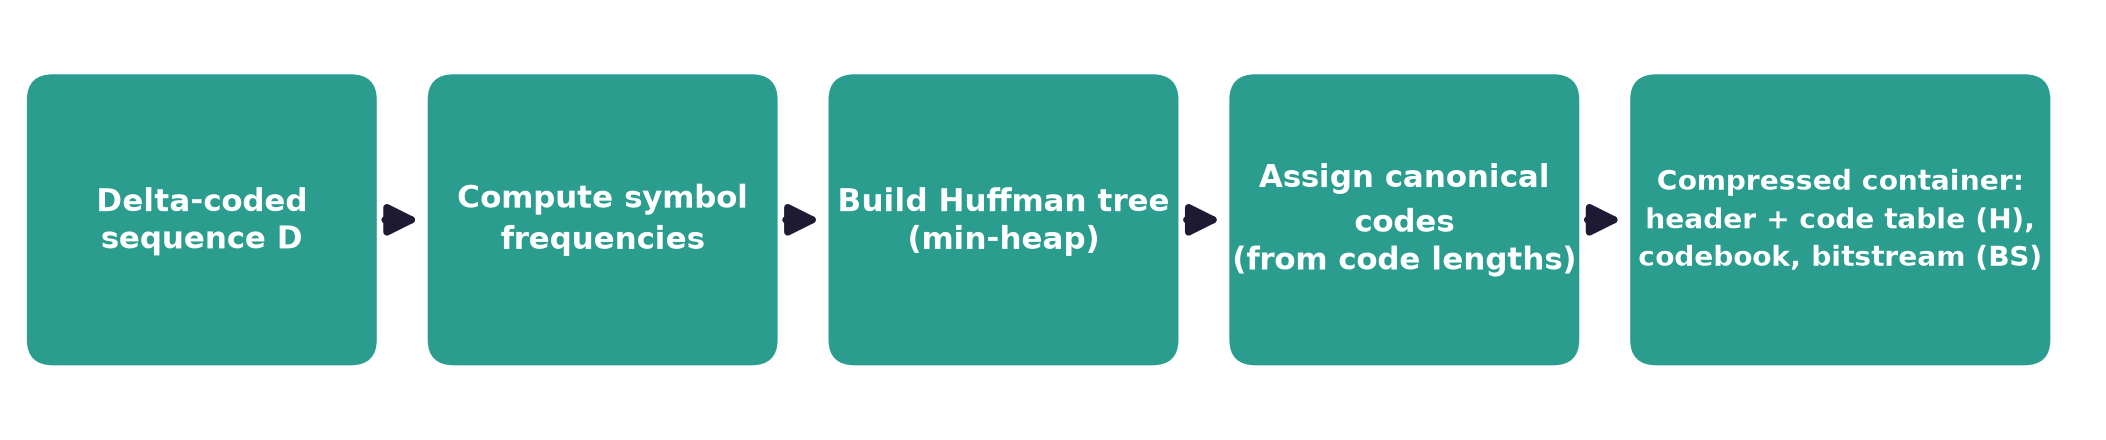
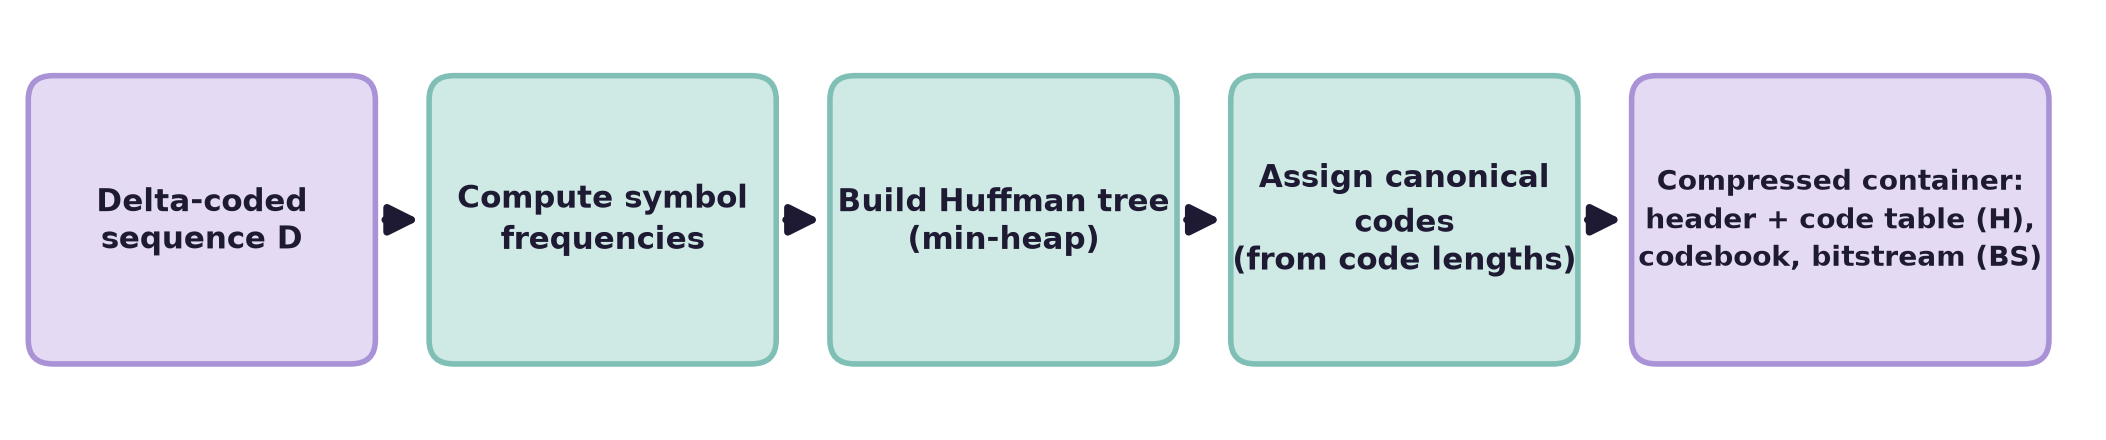
Huffman figures: two light tones (light teal + lavender)
Claude-Session: https://claude.ai/code/session_01T6gEewJ8YaCdmnsfS34RJd

diff --git a/results/seminar/make_huffman_combined.py b/results/seminar/make_huffman_combined.py
@@ -3,7 +3,7 @@ import matplotlib; matplotlib.use("Agg")
 import matplotlib.pyplot as plt
 from matplotlib.patches import Circle, FancyBboxPatch, FancyArrowPatch
 
-INK = "#1F1A33"; DEEP = "#2E2055"; MAG = "#E0457B"; TEAL = "#2A9D8F"; BLUE = "#2F6DB5"; PUR = "#6B4FA3"; ORG = "#2A9D8F"; YEL = "white"
+INK = "#1F1A33"; DEEP = "#2E2055"; MAG = "#E0457B"; TEAL = "#2A9D8F"; BLUE = "#2F6DB5"; PUR = "#6B4FA3"; ORG = "#2A9D8F"; YEL = "white"; LT = "#CFEAE5"; LP = "#E4DAF4"; LTE = "#7FBFB5"; LPE = "#A992D6"
 
 # Example with the structure of the example of the cited paper (frequencies 7, 6, 5, 2, 1) and the delta symbols of this work
 freq = {126: 2, 127: 6, 128: 7, 129: 5, 130: 1}
@@ -25,10 +25,10 @@ ax.text(4.85, 8.25, "Delta-coded indices D (21 symbols)", ha="center", va="cente
 ax.text(4.85, 7.55, "128 ×7,  127 ×6,  129 ×5,  126 ×2,  130 ×1", ha="center", va="center", fontsize=14, family="monospace", color=INK, fontweight="bold")
 ax.add_patch(FancyArrowPatch((4.85, 7.15), (4.85, 6.6), arrowstyle="-|>", mutation_scale=26, lw=3, color=INK))
 cols = ["Symbol\n(D)", "Frequency", "Huffman\ncode", "Canonical\ncode"]
-xs = [1.2, 3.45, 5.7, 7.95]; ws = [1.9, 2.4, 2.1, 2.1]; cc = [TEAL, TEAL, TEAL, TEAL]
+xs = [1.2, 3.45, 5.7, 7.95]; ws = [1.9, 2.4, 2.1, 2.1]; cc = [LT, LT, LT, LP]
 for x, w, t, col in zip(xs, ws, cols, cc):
-    ax.add_patch(FancyBboxPatch((x - w / 2, 5.55), w, 0.95, boxstyle="round,pad=0.02,rounding_size=0.15", fc=col, ec=col))
-    ax.text(x, 6.025, t, ha="center", va="center", color="white", fontsize=12.5, fontweight="bold", linespacing=1.1)
+    ax.add_patch(FancyBboxPatch((x - w / 2, 5.55), w, 0.95, boxstyle="round,pad=0.02,rounding_size=0.15", fc=col, ec=(LPE if col == LP else LTE), lw=1.8))
+    ax.text(x, 6.025, t, ha="center", va="center", color=INK, fontsize=12.5, fontweight="bold", linespacing=1.1)
 for r, s in enumerate(syms):
     y = 4.85 - r * 0.8
     ax.add_patch(FancyBboxPatch((0.1, y - 0.35), 9.5, 0.7, boxstyle="round,pad=0.01,rounding_size=0.1",
@@ -36,13 +36,13 @@ for r, s in enumerate(syms):
     vals = [str(s), str(freq[s]), tree_code[s], canon[s]]
     for i, (x, v) in enumerate(zip(xs, vals)):
         ax.text(x, y, v, ha="center", va="center", fontsize=16, family="monospace" if i != 1 else None,
-                color=(TEAL if i == 3 else INK), fontweight="bold" if i >= 2 else "normal")
+                color=(DEEP if i == 3 else INK), fontweight="bold" if i >= 2 else "normal")
 
 # ---------------- right: tree ----------------
 ox, oy, sx, sy = 10.4, 0.2, 0.93, 1.0   # offset and scale of the tree coordinates
 nodes = {
-    "root": (5.0, 7.0, "21", TEAL), "n8": (2.5, 5.55, "8", TEAL), "n13": (7.5, 5.55, "13", TEAL),
-    "n3": (1.3, 4.1, "3", TEAL), "l129": (3.7, 4.1, "5", ORG), "l127": (6.5, 4.1, "6", ORG), "l128": (8.5, 4.1, "7", ORG),
+    "root": (5.0, 7.0, "21", LP), "n8": (2.5, 5.55, "8", LP), "n13": (7.5, 5.55, "13", LP),
+    "n3": (1.3, 4.1, "3", LP), "l129": (3.7, 4.1, "5", ORG), "l127": (6.5, 4.1, "6", ORG), "l128": (8.5, 4.1, "7", ORG),
     "l130": (0.45, 2.65, "1", ORG), "l126": (2.15, 2.65, "2", ORG),
 }
 edges = [("root", "n8", "0"), ("root", "n13", "1"), ("n8", "n3", "0"), ("n8", "l129", "1"),
@@ -52,17 +52,17 @@ P = lambda x, y: (ox + x * sx, oy + y * sy - 0.4)
 ax.text(ox + 4.65, 8.25, "Huffman tree (left branch 0, right branch 1)", ha="center", va="center", fontsize=14, color=DEEP, fontweight="bold")
 for a, b, lab in edges:
     xa, ya = P(*nodes[a][:2]); xb, yb = P(*nodes[b][:2])
-    ax.plot([xa, xb], [ya - 0.3, yb + 0.3], color="#7F8FA9", lw=3, zorder=1)
+    ax.plot([xa, xb], [ya - 0.3, yb + 0.3], color="#9AA5B8", lw=3, zorder=1)
     ax.text((xa + xb) / 2 + (-0.28 if lab == "0" else 0.28), (ya + yb) / 2 + 0.1, lab, ha="center", va="center",
             fontsize=15, fontweight="bold", color=DEEP, bbox=dict(boxstyle="circle,pad=0.1", fc="white", ec="none"))
 for k, (x, y, t, col) in nodes.items():
     px, py = P(x, y)
     isleaf = k.startswith("l")
-    ax.add_patch(Circle((px, py), 0.42, fc=("white" if isleaf else col), ec=TEAL, lw=2.6, zorder=3))
-    ax.text(px, py, t, ha="center", va="center", color=(TEAL if isleaf else "white"), fontsize=15, fontweight="bold", zorder=4)
+    ax.add_patch(Circle((px, py), 0.42, fc=(LT if isleaf else LP), ec=(LTE if isleaf else LPE), lw=2.4, zorder=3))
+    ax.text(px, py, t, ha="center", va="center", color=INK, fontsize=15, fontweight="bold", zorder=4)
 for k, s in leaf.items():
     px, py = P(*nodes[k][:2])
-    ax.add_patch(FancyBboxPatch((px - 0.62, py - 1.45), 1.24, 0.95, boxstyle="round,pad=0.02,rounding_size=0.12", fc=YEL, ec=TEAL, lw=2.2, zorder=2))
+    ax.add_patch(FancyBboxPatch((px - 0.62, py - 1.45), 1.24, 0.95, boxstyle="round,pad=0.02,rounding_size=0.12", fc=YEL, ec=LTE, lw=2.2, zorder=2))
     ax.text(px, py - 0.82, str(s), ha="center", va="center", fontsize=14.5, fontweight="bold", color=INK, family="monospace")
     ax.text(px, py - 1.17, tree_code[s], ha="center", va="center", fontsize=14.5, fontweight="bold", color=INK, family="monospace")
 

diff --git a/results/seminar/make_huffman_figs.py b/results/seminar/make_huffman_figs.py
@@ -2,15 +2,15 @@ import math, heapq
 import matplotlib; matplotlib.use("Agg")
 import matplotlib.pyplot as plt
 from matplotlib.patches import FancyBboxPatch, FancyArrowPatch
-INK="#1F1A33";DEEP="#2E2055";PURPLE="#6B4FA3";MAG="#E0457B";TEAL="#2A9D8F";GOLD="#F2B134";ORG="#E07B22";BLUE="#2F6DB5"
+LT="#CFEAE5";LP="#E4DAF4";LTE="#7FBFB5";LPE="#A992D6";INK="#1F1A33";DEEP="#2E2055";PURPLE="#6B4FA3";MAG="#E0457B";TEAL="#2A9D8F";GOLD="#F2B134";ORG="#E07B22";BLUE="#2F6DB5"
 # ---------- figure 1: coloured flow ----------
 fig,ax=plt.subplots(figsize=(13.33,2.6),dpi=200); ax.set_xlim(0,100); ax.set_ylim(0,20); ax.axis("off")
-steps=[("Delta-coded\nsequence D",TEAL),("Compute symbol\nfrequencies",TEAL),("Build Huffman tree\n(min-heap)",TEAL),("Assign canonical\ncodes\n(from code lengths)",TEAL),("Compressed container:\nheader + code table (H),\ncodebook, bitstream (BS)",TEAL)]
+steps=[("Delta-coded\nsequence D",LP),("Compute symbol\nfrequencies",LT),("Build Huffman tree\n(min-heap)",LT),("Assign canonical\ncodes\n(from code lengths)",LT),("Compressed container:\nheader + code table (H),\ncodebook, bitstream (BS)",LP)]
 w=16.4;gap=3.0;x=0.6
 for i,(t,c) in enumerate(steps):
     ww=w+(3.4 if i==4 else 0)
-    ax.add_patch(FancyBboxPatch((x,3),ww,14,boxstyle="round,pad=0.2,rounding_size=1.2",fc=c,ec=c))
-    ax.text(x+ww/2,10,t,ha="center",va="center",color="white",fontsize=11 if i<4 else 10,fontweight="bold",linespacing=1.35)
+    ax.add_patch(FancyBboxPatch((x,3),ww,14,boxstyle="round,pad=0.2,rounding_size=1.2",fc=c,ec=(LPE if c==LP else LTE),lw=2))
+    ax.text(x+ww/2,10,t,ha="center",va="center",color=INK,fontsize=11 if i<4 else 10,fontweight="bold",linespacing=1.35)
     if i<4: ax.add_patch(FancyArrowPatch((x+ww+0.4,10),(x+ww+gap-0.4,10),arrowstyle="-|>",mutation_scale=22,lw=2.6,color=INK))
     x+=ww+gap
 plt.savefig("figs/huffman_flow.png",bbox_inches="tight",facecolor="white"); plt.close()
